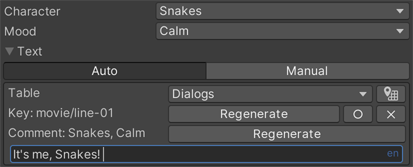
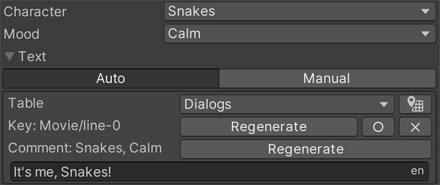
Update documentation

diff --git a/README.md b/README.md
@@ -36,10 +36,10 @@ In the inspector window you will see a simplified drawer for your LocalizedStrin
 
 Press `Regenerate` to change key for the current entry. Press `✕` to remove current entry from the table or `◯` to set entry reference empty without removing current entry from the table.
 
-If a generated key matches an existing key, it will be appended with an index, e. g. `weapon/tommy_gun/name-1`. You can specify position and format of the index in the key format string:
+If a generated key matches an existing key, it will be appended with an index, e. g. `weapon/tommy_gun/name-1`. The index position can be specified in the key format string. This ensures that even the first generated key will have a 0 index appended.
 
 
-    [AutoKey("{Type}/{rootName}/name-{index:D2}")]
+    [AutoKey("{Type}/{rootName}/name-{index}")]
     public LocalizedString Name;
 
 ###  Generating comments
@@ -111,9 +111,9 @@ To introduce custom parameters use `AutoKeyParamsAttribute`. This attribute can 
         
     [Serializable]
     public class ItemLevel {
-       	[AutoKey("{type}/{rootName}/level-{listIndex:D2}/name")]
+       	[AutoKey("{type}/{rootName}/level-{listIndex}/name")]
        	public LocalizedString Name;  
-       	[AutoKey("{type}/{rootName}/level-{listIndex:D2}/desc")]
+       	[AutoKey("{type}/{rootName}/level-{listIndex}/desc")]
        	public LocalizedString Description;  
     }
    
@@ -121,7 +121,7 @@ To introduce custom parameters use `AutoKeyParamsAttribute`. This attribute can 
 
 ### Parameter processors
 
-Sometimes you might want to declare custom parameters in the code you don't have access to. Or you might want some of your classes and assemblies to not depend on Localization Key Generator assembly, but still be able to provide custom parameters. Or you might need to access `SerializedProperty` data in your parameters. In those cases parameter processors could come to the rescue.
+Sometimes you might want to declare custom parameters in the code you don't have access to. Or you might want some of your classes and assemblies to not depend on Localization Key Generator assembly, but still be able to provide custom parameters. Or you might need to access `SerializedProperty` data in your parameters. In these cases parameter processors will come to the rescue.
 
 Parameter processors are used to declare custom parameters based on `InspectorProperties`, which are Odin's more powerful equivalent to `SerializedProperty`. 
 
@@ -144,6 +144,42 @@ To create a new parameter processor, inherit the base `ParameterProcessor` class
 			return string.Empty;
 		}  
     }
+
+### Resolvable string formatting
+
+You can use interpolated strings-like syntax to provide string format for resolvable strings. For example you can use [standard numeric format](https://learn.microsoft.com/en-us/dotnet/standard/base-types/standard-numeric-format-strings) to set minimum number of digits for the listIndex parameter:
+
+    [AutoKey("{type}/{rootName}/level-{listIndex:D2}/name")]
+    public LocalizedString Name; 
+
+### Case style formatting
+In addition to [standard format strings](https://learn.microsoft.com/en-us/dotnet/standard/base-types/formatting-types#standard-format-strings)  you can use special formats to specify case style for resolvable strings that resolve to string or enum values.
+| Case | Format |
+|--|--|
+| camelCase | aaBb |
+| PascalCase | AaBb |
+| kebab-case | aa-bb |
+| SCREAMING_SNAKE | AA_BB |
+| UNALTERED_Case | \*_* |
+You can create your own custom case style using combinations of lower and capital letters with `*` character to keep original case intact and various separator characters. 
+
+	[AutoKeyParams("type", "Type")]
+    public class InventoryItem : ScriptableObject {
+       	public ItemType Type;
+       	public ItemLevel[] Levels;
+    }
+        
+    [Serializable]
+    public class ItemLevel {
+       	[AutoKey("{type:aa_bb}/{rootName:aa_bb}/level-{@{listIndex} + 1:D2}/name")]
+       	public LocalizedString Name;  
+       	[AutoKey("{type:aa_bb}/{rootName:aa_bb}/level-{@{listIndex} + 1:D2}/desc")]
+       	public LocalizedString Description;
+    }
+   
+   ![](/Documentation~/images/CaseStyle.png)
+   
+You can achieve the same result by setting default case style format in `LocalizationKeyGeneratorSettings` using `Default Key / Comment String Format` fields. If by default you prefer to keep original case style, set these fields empty.
 
 ## Author
 Vladimir Kuznetsov, a game developer.

diff --git a/CHANGELOG.md b/CHANGELOG.md
@@ -1,0 +1,13 @@
+# Changelog
+
+## [1.0.1] - 2023-02-01
+
+### Added
+
+* Added string case style configuration via format strings [c3951b1](https://bitbucket.org/GallopingDino/localization-key-generator/commits/c3951b1ec8edf578d2b49729ed4bb05e404c8119)
+ 
+### Bug Fixes
+
+* Fixed visibility scopes for parameters defined via AutoKeyParams attribute [1523610](https://bitbucket.org/GallopingDino/localization-key-generator/commits/1523610e64b28d432eba1e6e0989fb8822115e5e)
+* Fixed text area focus and cursor jumps on layout change  [ab604d6](https://bitbucket.org/GallopingDino/localization-key-generator/commits/ab604d6dae4d6258af1284867bb6a53cc6be3be5)
+
